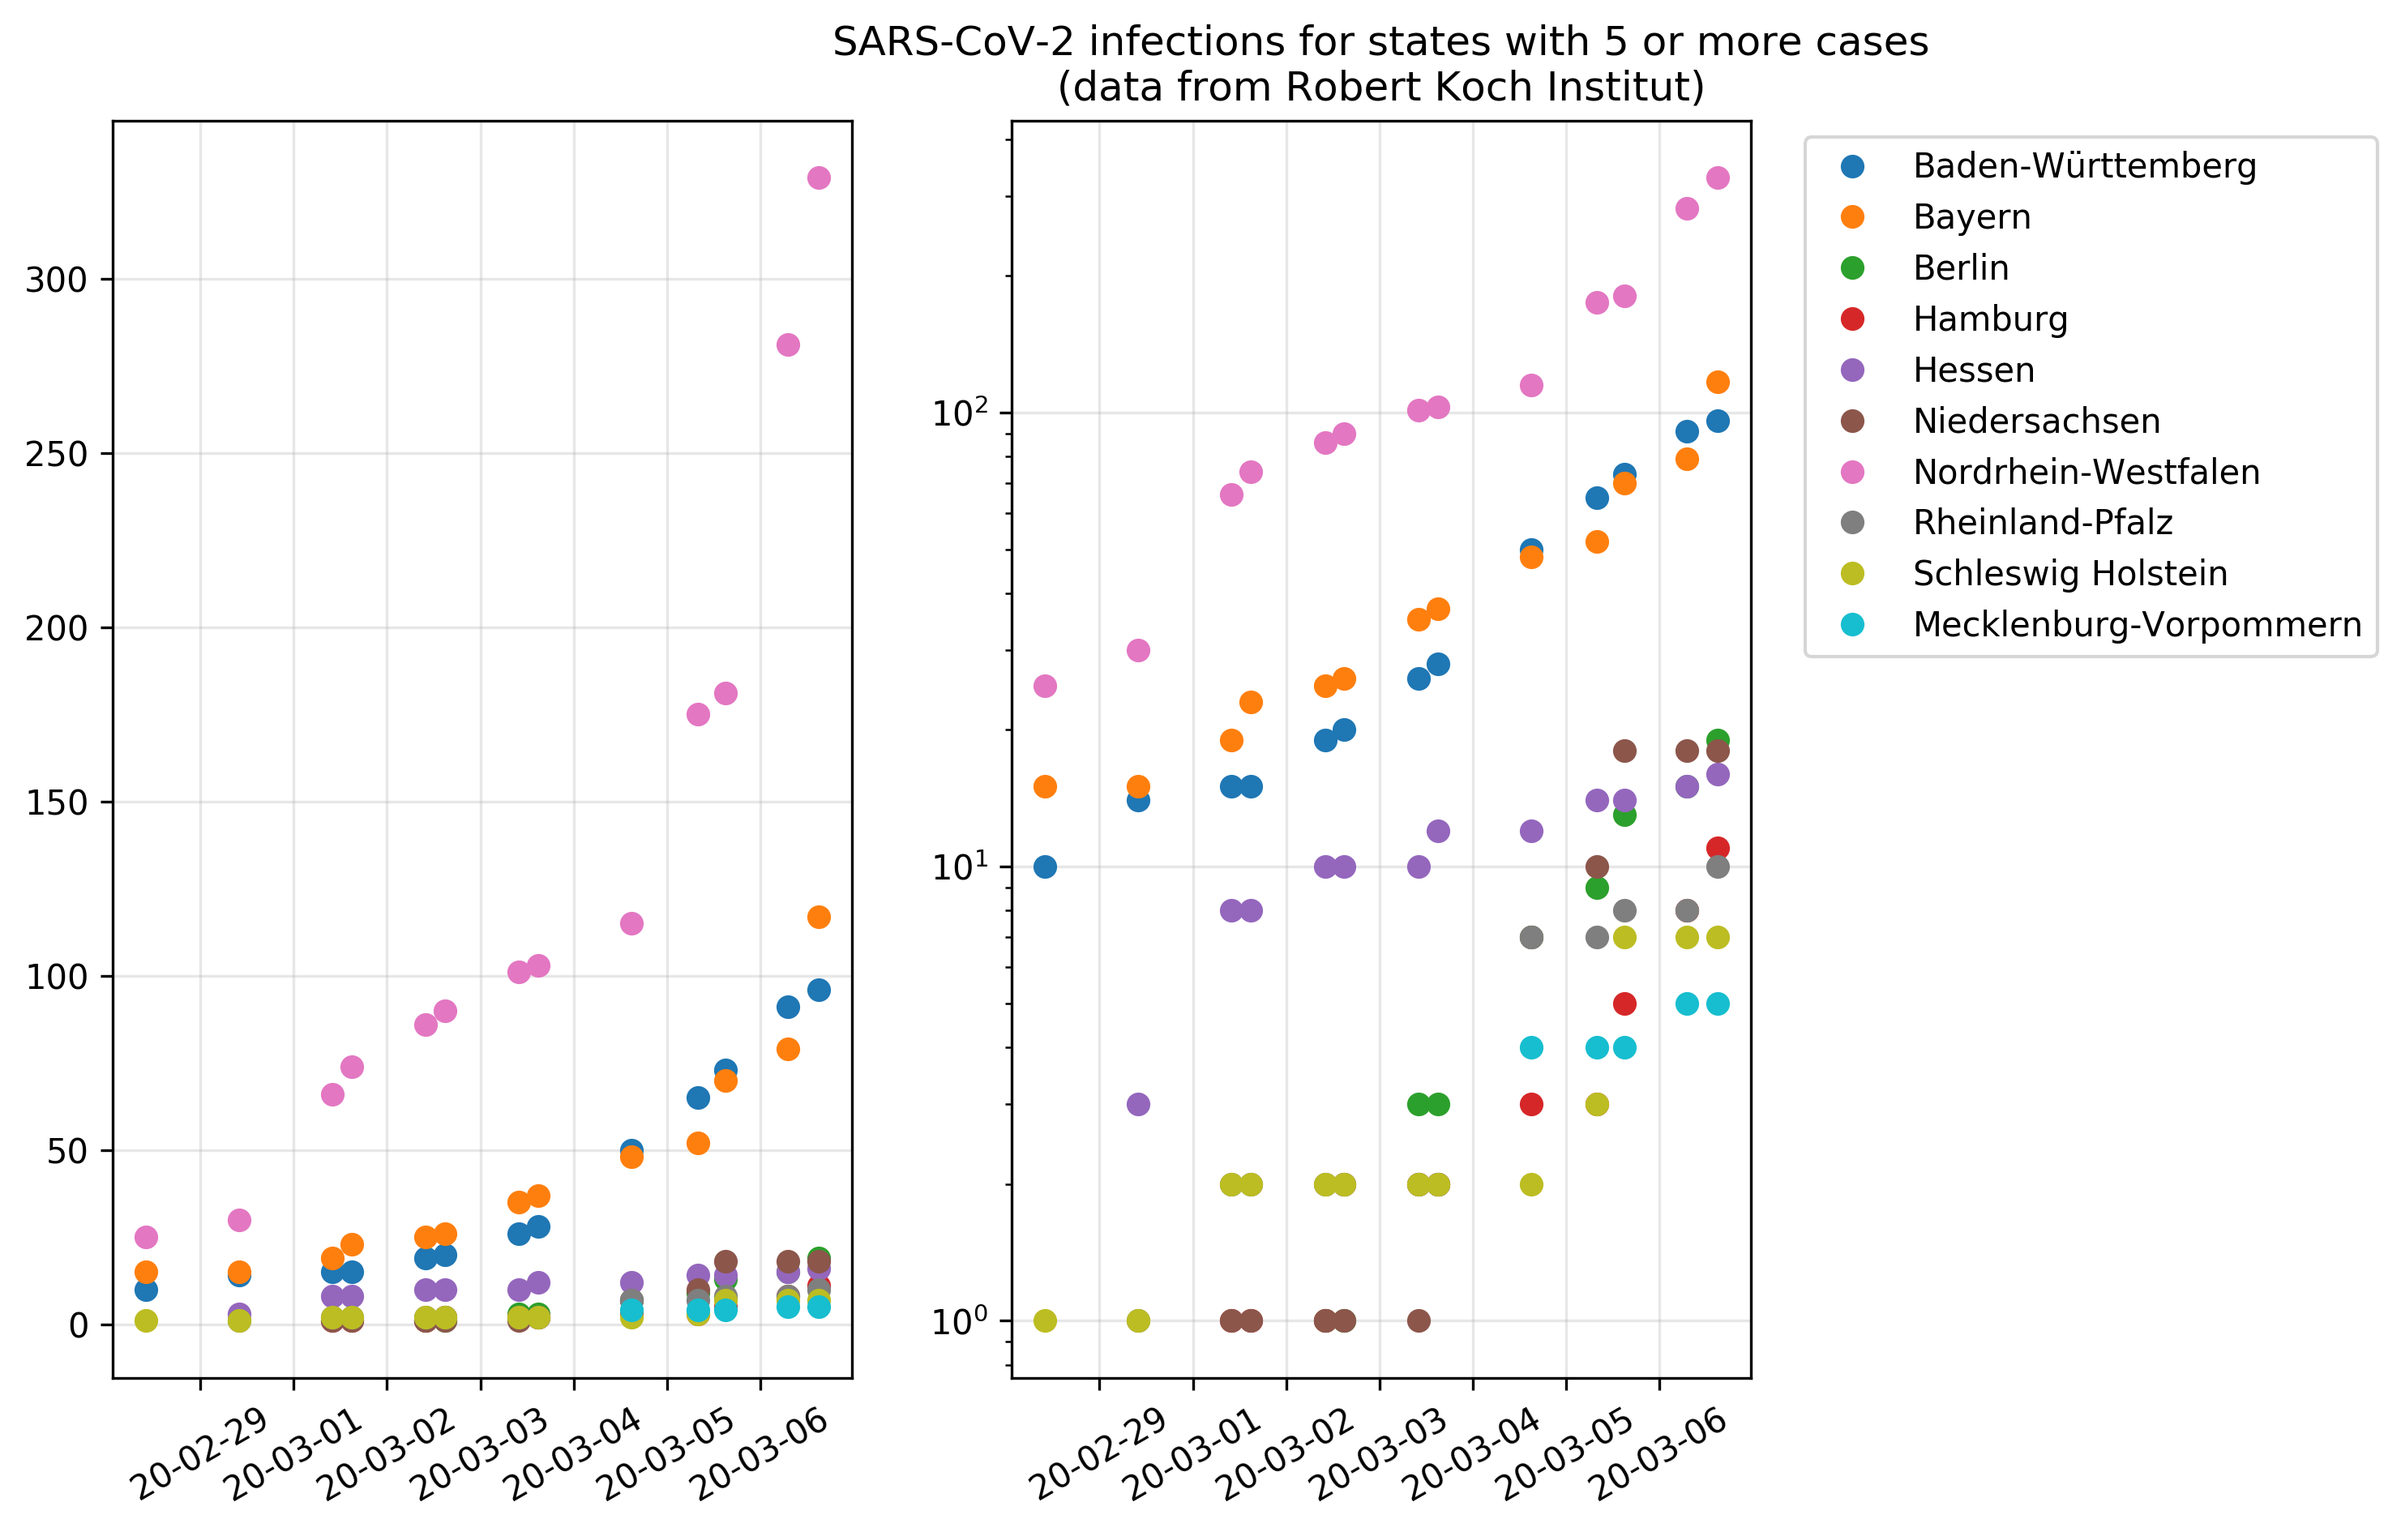
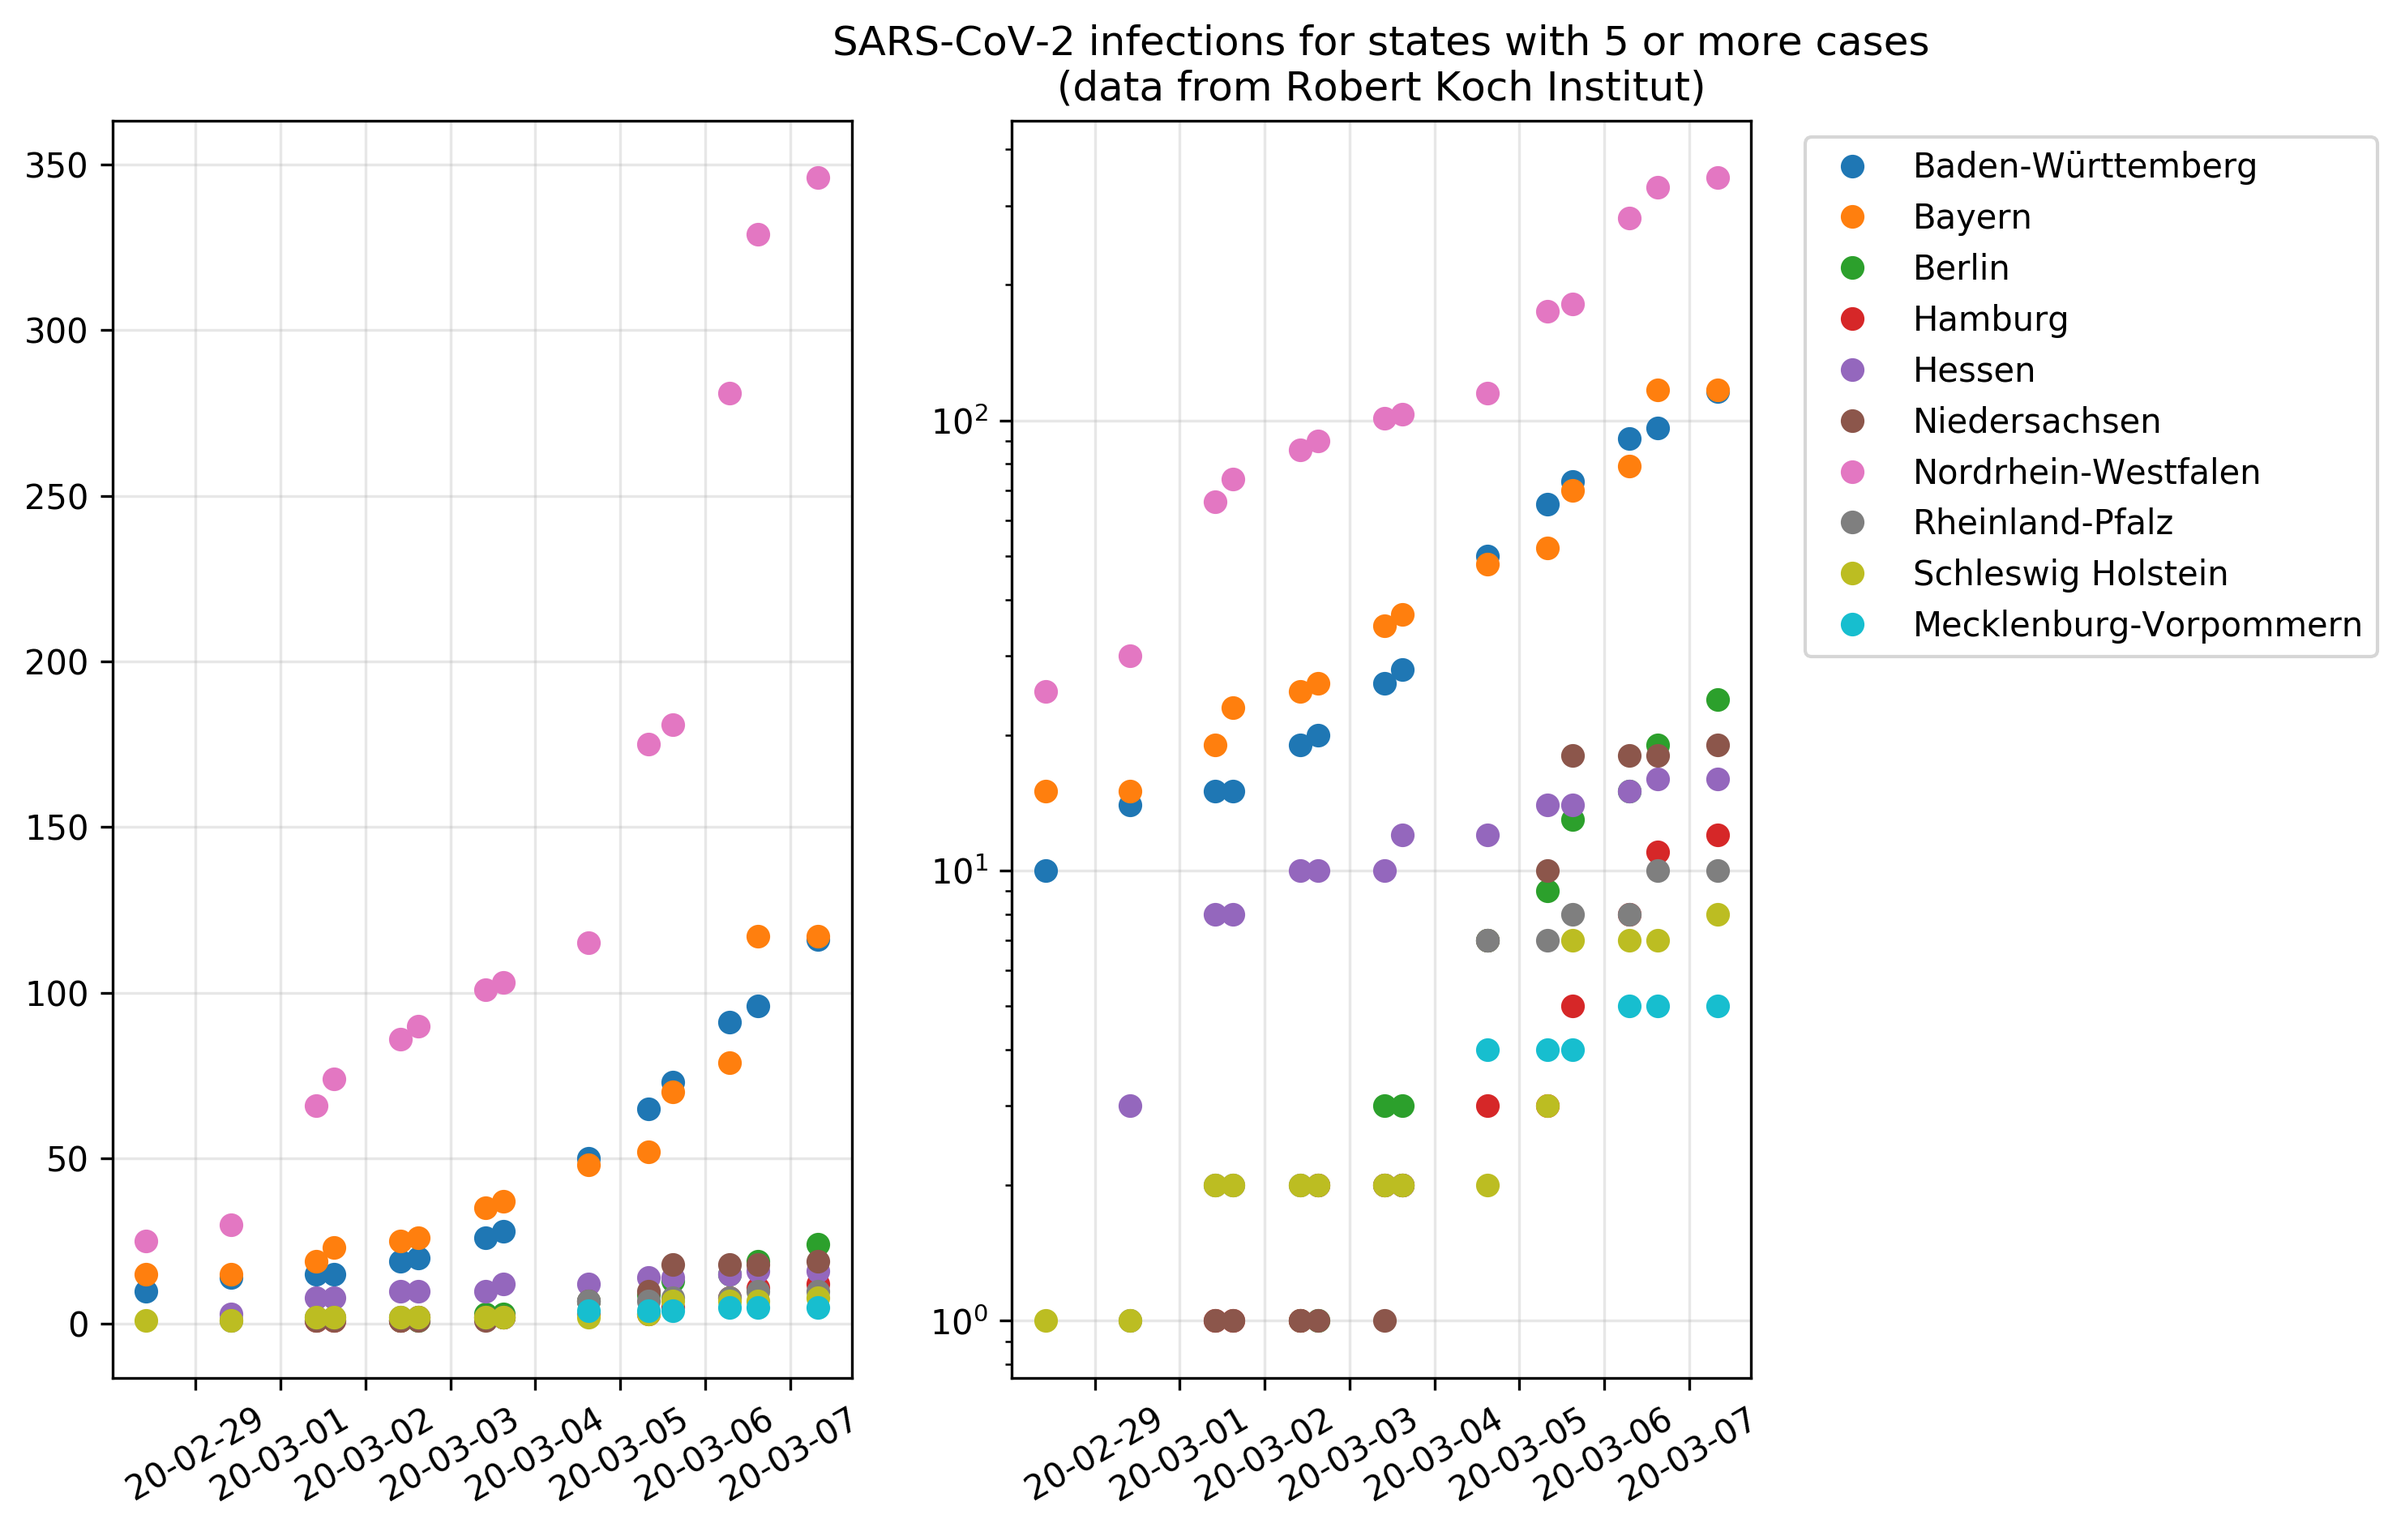
add web scrapper and add data

diff --git a/get_data.py b/get_data.py
@@ -1,0 +1,74 @@
+#!/usr/bin/env python3
+
+from bs4 import BeautifulSoup
+from urllib.error import URLError
+from urllib.error import HTTPError
+from urllib.request import urlopen
+import re
+import os
+
+def main():
+    url = "https://www.rki.de/DE/Content/InfAZ/N/Neuartiges_Coronavirus/Fallzahlen.html"
+    res = get_webpage(url)
+    data_table = extract_data_table(res)
+    data = get_data_dict(data_table)
+    date = get_date(res)
+    data_file = "-".join(["{:02d}".format(int(n)) for n in date]) + ".txt"
+    data_file = os.path.join("data", data_file)
+    if not os.path.exists(data_file):
+        with open(data_file, "w") as outfile:
+            for name, val in data.items():
+                print("{}\t{}".format(name, val), file=outfile)
+
+def get_date(res):
+    for e in res.findAll("p"):
+        try:
+            pattern = "\(Datenstand: ([\d]+)\.([\d]+).([\d]{4}), ([\d]{2}):([\d]{2}) Uhr\)"
+            m = re.search(pattern, str(e.contents[0]))
+            if m is not None:
+                date = m.groups()
+                break
+        except IndexError:
+            pass
+    d, m, y, H, M = date
+    date = [y,m,d,H,M]
+    return date
+
+
+def get_data_dict(table):
+    entries = table.findAll("td")
+    data = {}
+    name = ""
+    for n,e in enumerate(entries):
+        if n%3 == 0:
+            name = e.contents[0]
+            if "Gesamt" in name:
+                break
+        if n%3 == 1:
+            val = e.contents[0]
+            data[name] = val
+        if n%3 == 2:
+            continue
+    return data
+
+def get_webpage(url):
+    try:
+        html = urlopen(url)
+    except HTTPError as e:
+        print(e)
+    except URLError:
+        print("Server down or incorrect domain")
+    else:
+        res = BeautifulSoup(html.read(), "html5lib")
+    return res
+
+def extract_data_table(res):
+    tables = res.findAll("table")
+    for table in tables:
+        if "Bundesland" in str(table):
+            data_table = table
+            break
+    return data_table
+
+if __name__ == "__main__":
+    main()
